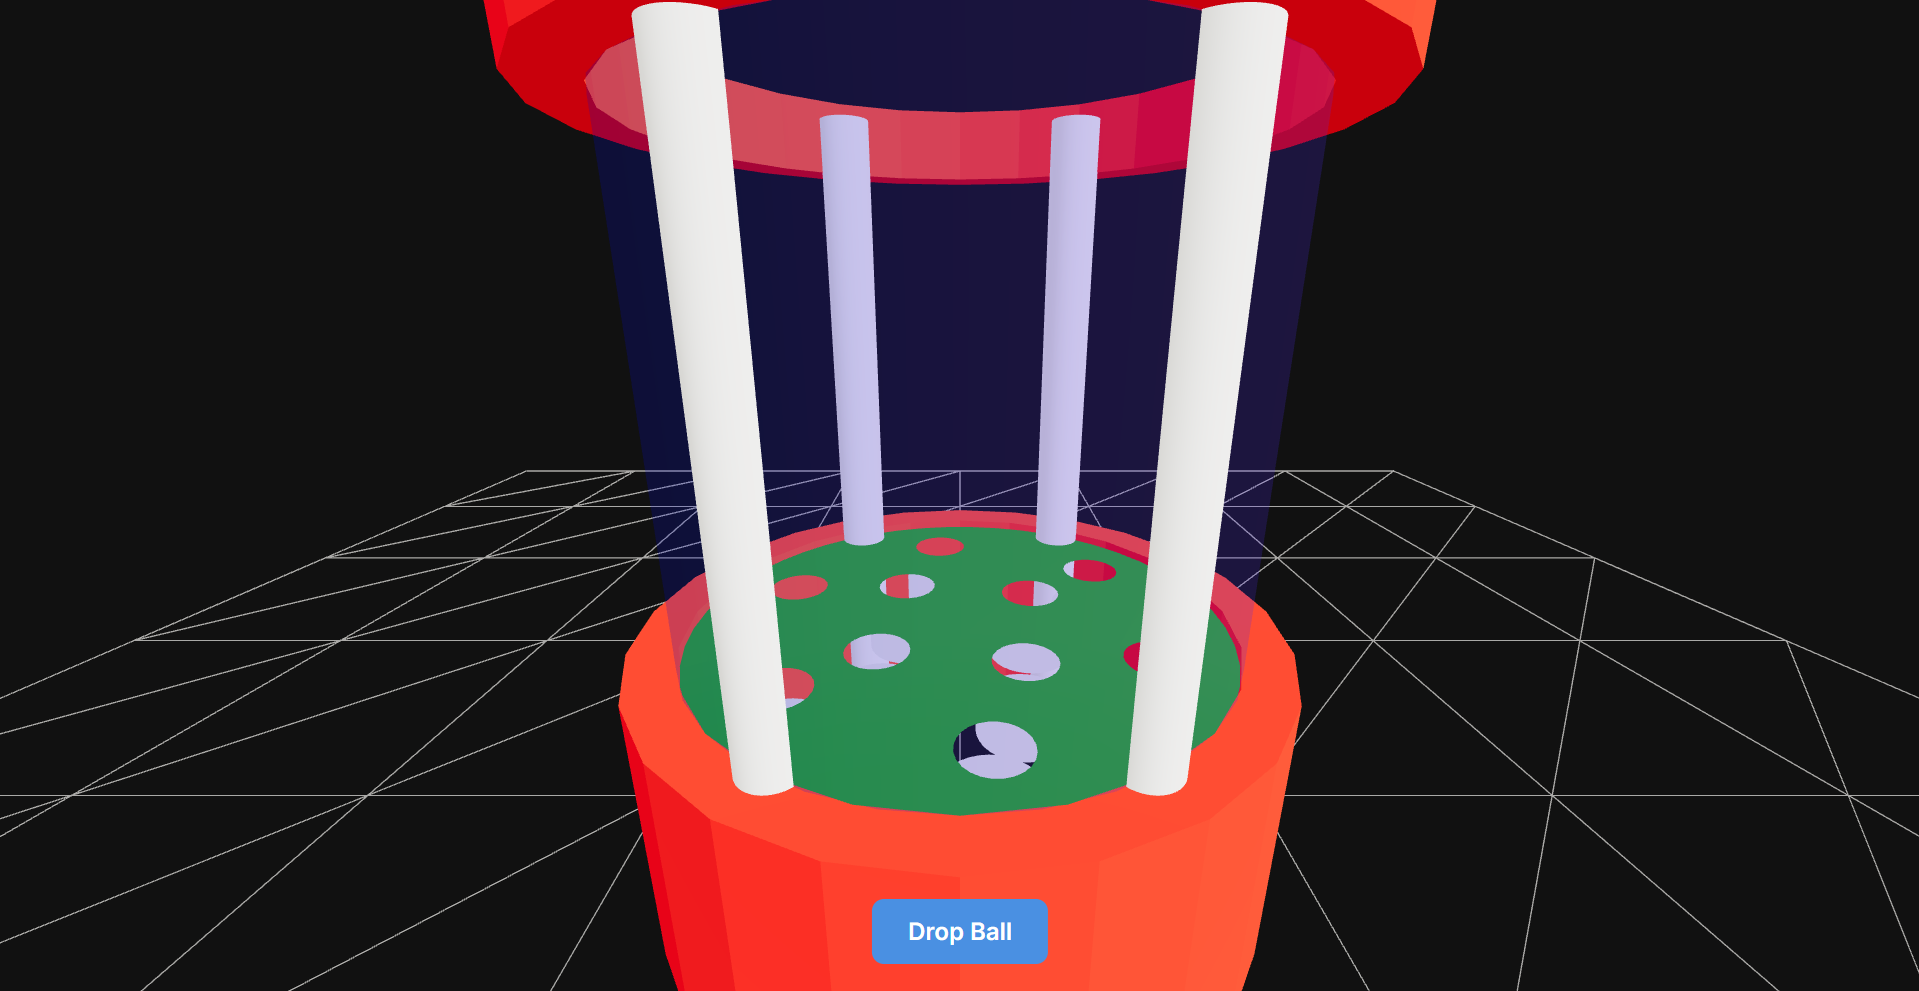
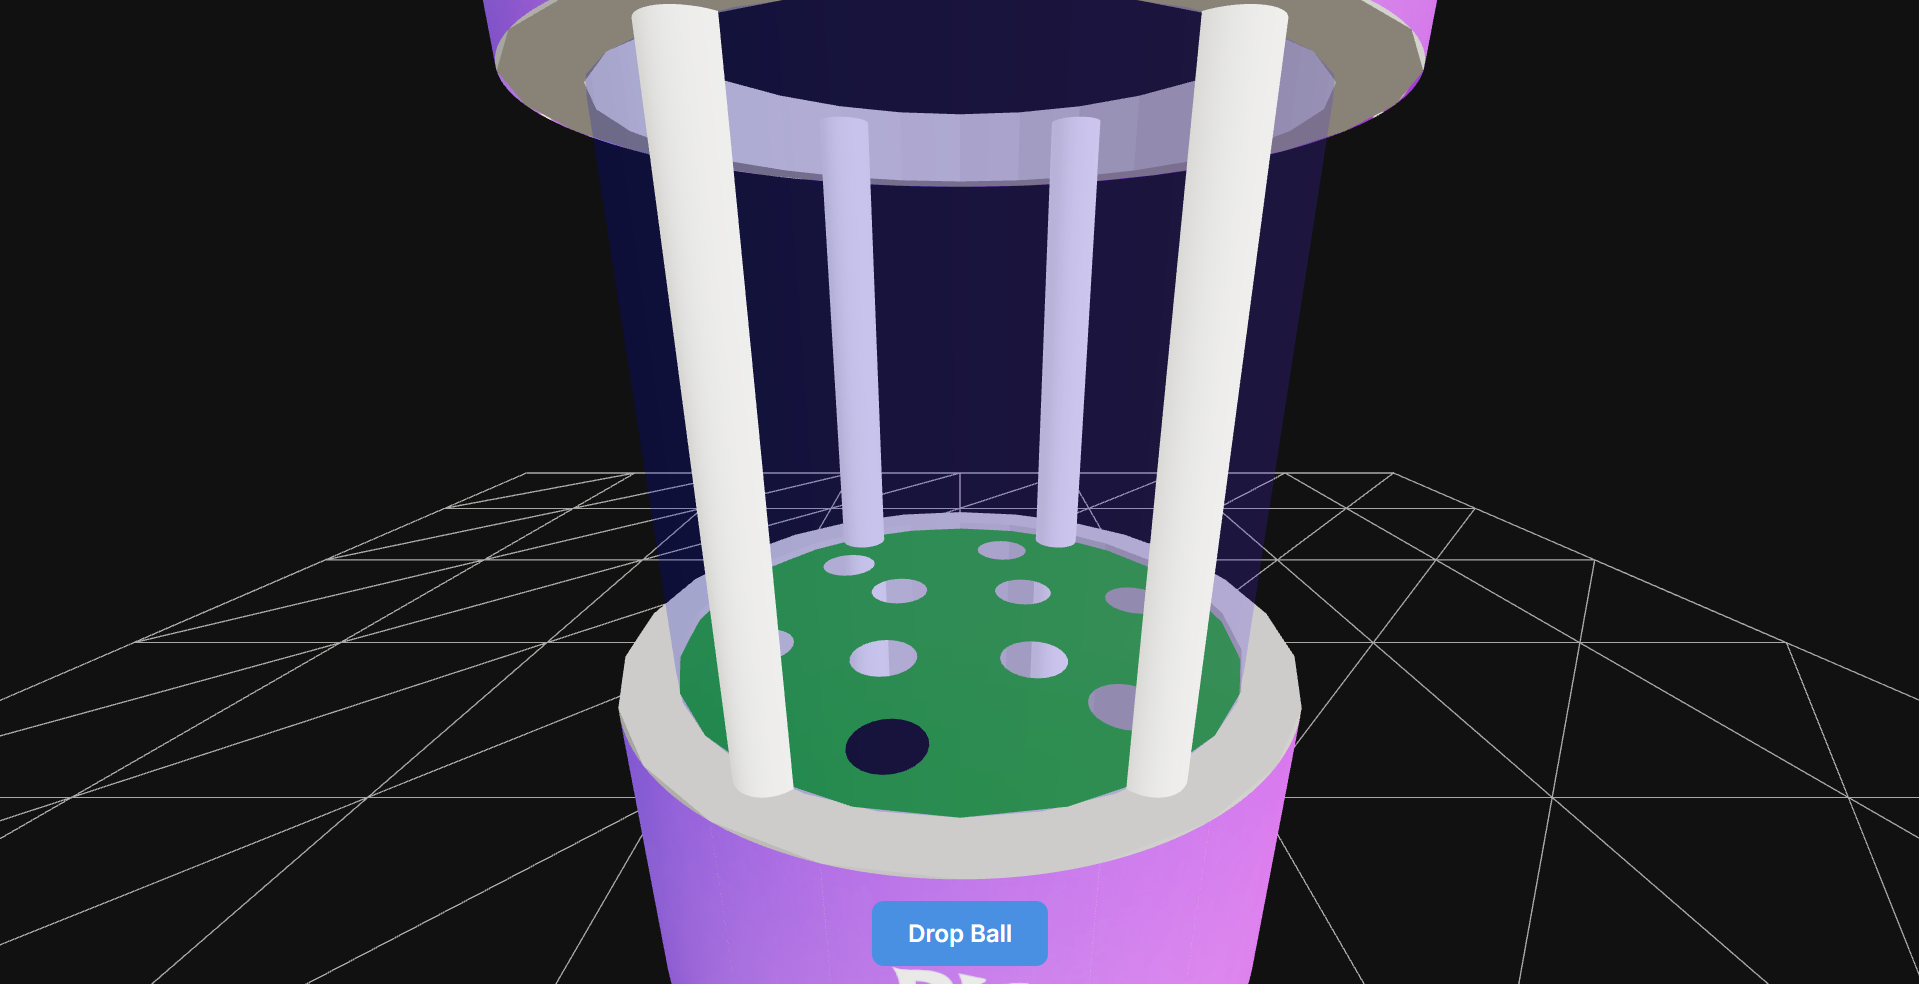
mengganti bg

diff --git a/src/App.jsx b/src/App.jsx
@@ -50,7 +50,7 @@ function App() {
             </Suspense>
           </Canvas>
 
-          {ballQueue.length > 0 && (
+          {/* {ballQueue.length > 0 && (
             <div className="ball-list-container">
               <h4 className="ball-list-title">Daftar Bola</h4>
               <ul className="ball-list">
@@ -62,7 +62,7 @@ function App() {
                 ))}
               </ul>
             </div>
-          )}
+          )} */}
 
           <button className="drop-ball-button" onClick={dropBall}>
             Drop Ball
